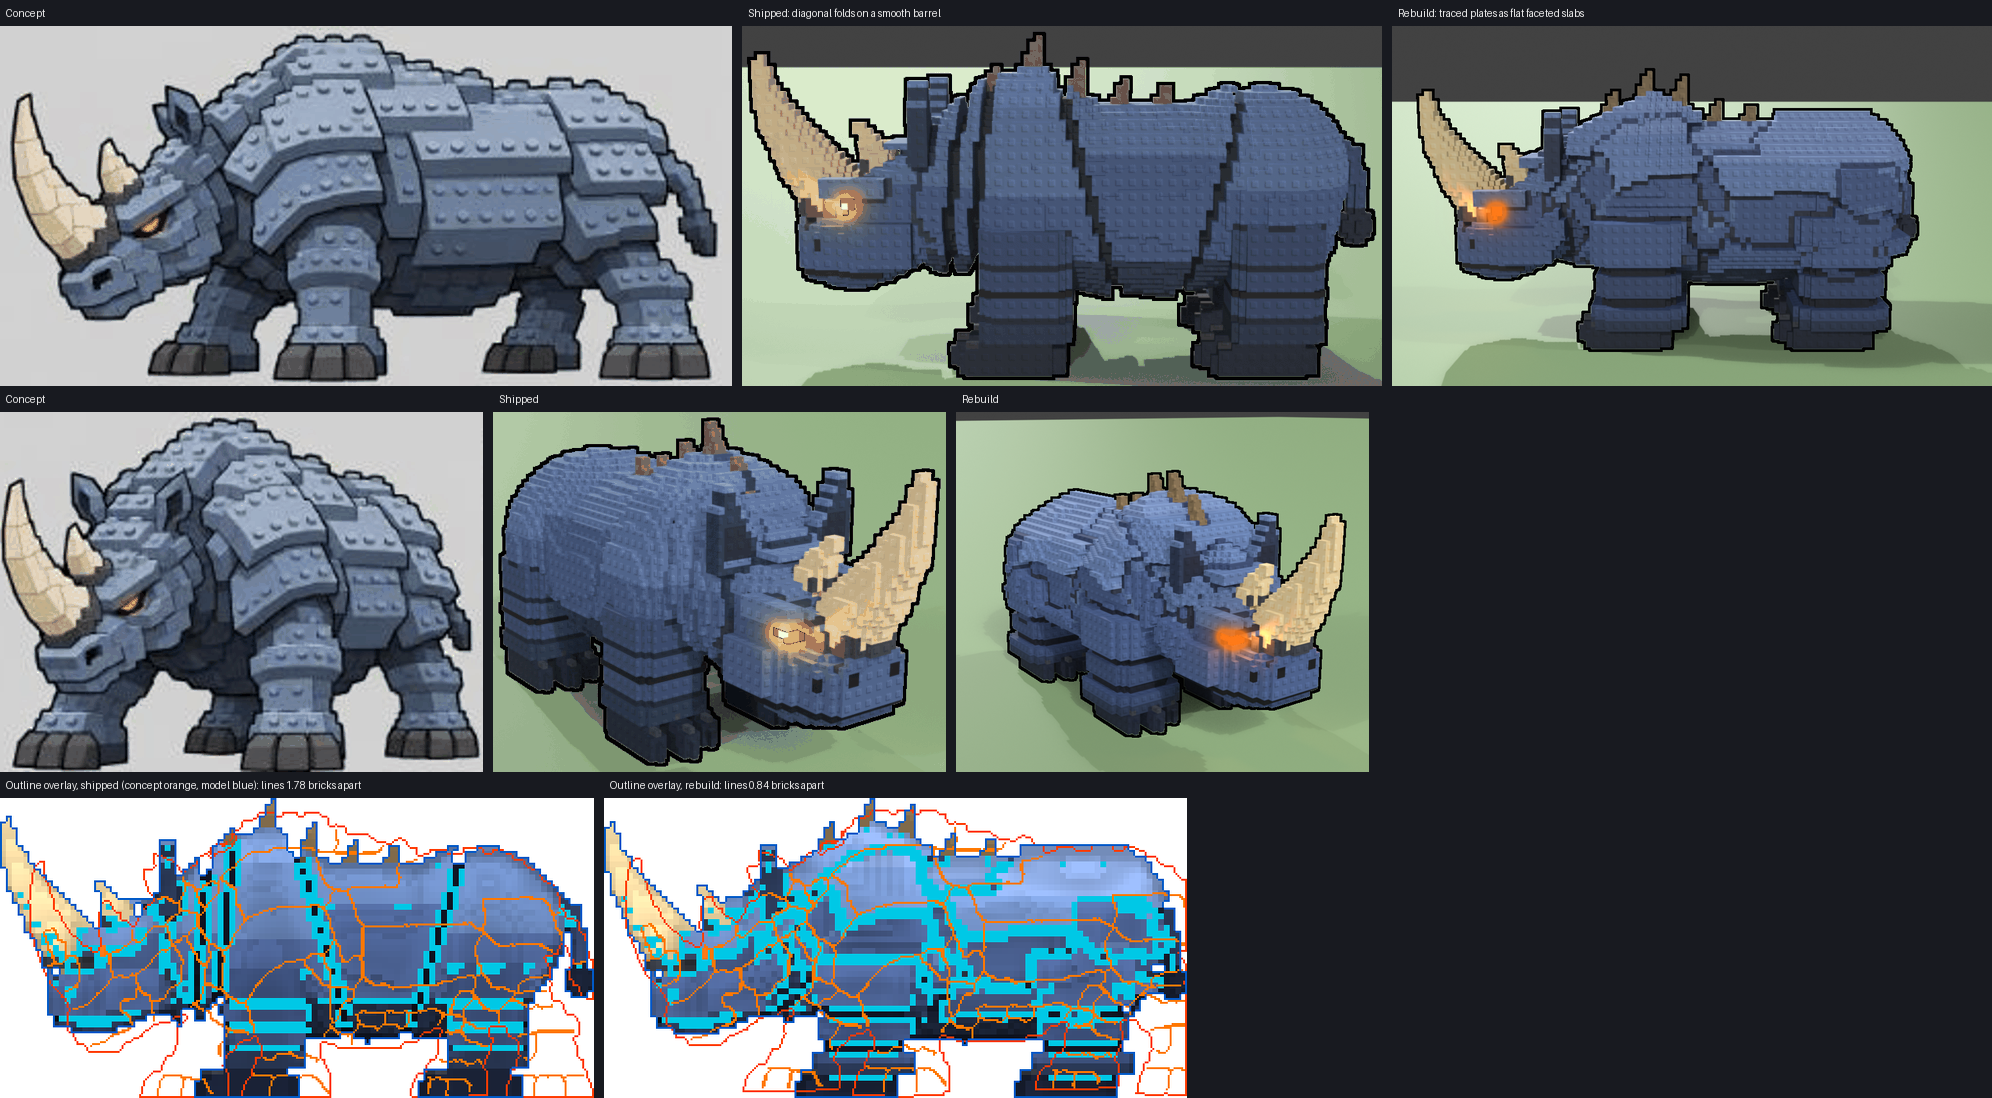
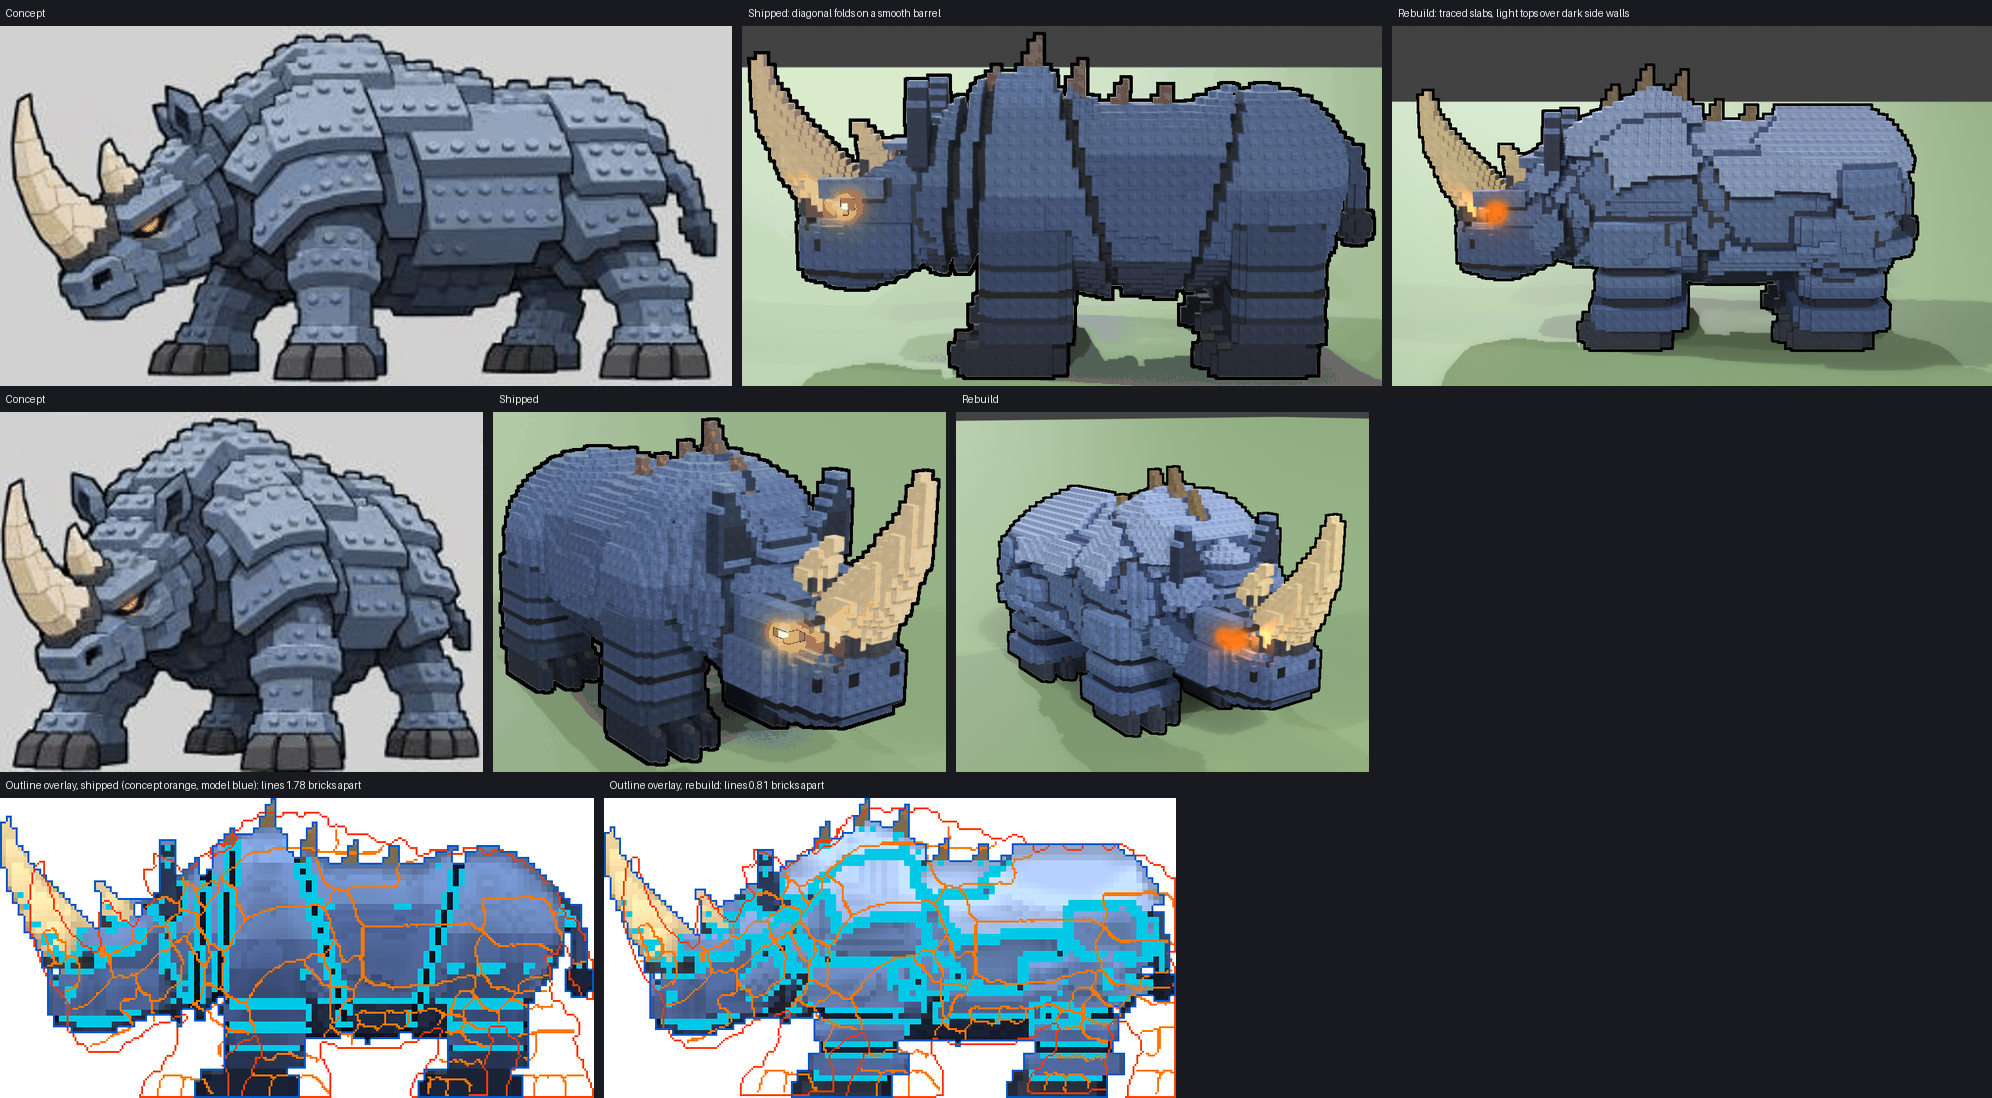
Stud Voxel: rhino slabs with deeper steps, light tops over dark side walls and a lifted palette
Claude-Session: https://claude.ai/code/session_01NPuT6tnB2mepVn22RWSB8t

diff --git a/.claude/skills/lihfolk-stud-voxel/examples/brick/war_rhino_plated_brick.py b/.claude/skills/lihfolk-stud-voxel/examples/brick/war_rhino_plated_brick.py
@@ -22,7 +22,7 @@ col = np.zeros((*n, 3)); kind = np.zeros(n, np.int8); stud = np.zeros(n, bool)  
 pid = np.zeros(n, np.int32); lvl = np.zeros(n)                                      # plate id / plate height level
 
 def hx(h): return np.array([int(h[i:i + 2], 16) / 255 for i in (0, 2, 4)])
-PLATE = hx('56709e'); HEADC = hx('5c77a6'); HIDE = hx('1f2a40'); HOOF = hx('3a3e47'); HOOFL = hx('5e636d')
+PLATE = hx('6a84b4'); HEADC = hx('5c77a6'); HIDE = hx('1f2a40'); HOOF = hx('3a3e47'); HOOFL = hx('5e636d')
 BLACK = hx('0c0e12'); IVORY = hx('f6e0b0'); COLLAR = hx('3c4456'); TUFT = hx('252b38')
 GLOW = {2: hx('ff7a18')}                                       # eyes: ONE flat glow colour (no hot centre / rim / glint)
 
@@ -85,6 +85,7 @@ SNAP = np.array([0, .5, 1.0])
 body_zone = (Y > BELLY_Y) & (d > -2.5)
 surf = (np.abs(d) < .8) & body_zone & (X > 0)
 shell = np.zeros(n, bool); L_ = np.zeros(n); face = np.ones(n)
+STEP = 1.4                                                             # bricks of height per plate level: deep steps show their side walls
 for i in np.unique(plate[surf]):
     P = np.stack([AX[surf & (plate == i)], Y[surf & (plate == i)], Z[surf & (plate == i)]], 1)
     if len(P) < 12: continue
@@ -93,9 +94,11 @@ for i in np.unique(plate[surf]):
     q = nrm / np.abs(nrm).max(); q = np.sign(q) * SNAP[np.argmin(np.abs(np.abs(q)[:, None] - SNAP[None]), 1)]
     nrm = q / np.linalg.norm(q)
     h = AX * nrm[0] + Y * nrm[1] + Z * nrm[2]
-    top = np.quantile(P.dot(nrm), .5) + float(plev[i]) - .5              # the slab's flat outer face
-    m_ = (plate == i) & body_zone & (((h <= top) & (d < float(plev[i]) + .6)) | (d < .5))   # never far off the body, never a hole
-    shell |= m_; L_[m_] = float(plev[i]); face[m_] = .84 + .26 * max(nrm[1], 0) + .05 * float(plev[i])   # faces that look up are lighter
+    rise = STEP * float(plev[i]) - .9
+    top = np.quantile(P.dot(nrm), .5) + rise                             # the slab's flat outer face
+    m_ = (plate == i) & body_zone & (((h <= top) & (d < rise + 1.1)) | (d < .5))   # never far off the body, never a hole
+    shell |= m_; L_[m_] = float(plev[i]); face[m_] = .86 + .34 * max(nrm[1], 0) + .04 * float(plev[i])   # faces that look up are lighter
+    face[m_ & (h <= top - 1.0) & (d < rise + .1)] *= .58                                   # everything under the outer layer is the slab's dark side wall
 TONE = (1.0, .95, 1.05)
 put(shell, PLATE, p=0, l=0)
 col[shell] = PLATE[None] * (np.array(TONE)[plate[shell] % 3] * face[shell])[:, None]
@@ -178,11 +181,11 @@ for ax in range(3):
     for s in (1, -1):
         np_ = np.roll(pid, s, axis=ax); nl = np.roll(lvl, s, axis=ax)
         rim |= (pid >= 2000) & (np_ >= 2000) & (np_ != pid) & (nl < lvl)
-col[rim & ~dark & (kind == 1)] *= 1.22                                             # hard light edge on the proud plate
-col *= np.clip(.62 + .55 * (Y / 50.0), .62, 1.18)[..., None]                      # lit tops, dark underside
+col[rim & ~dark & (kind == 1)] *= 1.08                                             # hard light edge on the proud plate
+col *= np.clip(.76 + .40 * (Y / 50.0), .76, 1.16)[..., None]                      # lit tops, dark underside
 col = np.clip(col, 0, 1)
 # voxel-style: VOXEL SIZE = 1 unit (= 2.5 studs in game). PALETTE <= 16: snap every solid brick to its nearest entry.
-PAL = np.array([hx(h) for h in ('7d97c8', '5f79a8', '4a6090', '384a72', '27344f',      # armour: light / main / side / dark / shadow
+PAL = np.array([hx(h) for h in ('9db4de', '7d97c8', '5f79a8', '4a6090', '384a72', '27344f',      # armour: light / main / side / dark / shadow
                                  '1a2236', '121828',                                  # seam / deep crease
                                  '6c88ba',                                            # head highlight
                                  '3a3e47', '5e636d', '0b0d11',                        # hoof / hoof light / black

diff --git a/docs/research/92-trace-and-match.md b/docs/research/92-trace-and-match.md
@@ -52,7 +52,12 @@ bricks) for a cleaner surface.
 | Shipped (diagonal folds) | 0.76 | 1.78 | 1.49 | 83 | 15 % | 60 % |
 | First rebuild (hand-laid rings) | 0.78 | 1.16 | 1.50 | 95 | 29 % | 80 % |
 | Traced rebuild | 0.79 | 0.73 | 1.14 | 91 | 29 % | 79 % |
-| Traced, faceted slabs (current) | 0.79 | 0.84 | 1.37 | 92 | 30 % | 74 % |
+| Traced, faceted slabs | 0.79 | 0.84 | 1.37 | 92 | 30 % | 74 % |
+| Traced slabs, deeper steps, light tops over dark walls (current) | 0.79 | 0.81 | 1.52 | 89 | 31 % | 74 % |
+
+The current version scores lower on `structure` only because its edge share (33 %) is past the
+25 % the score rewards; its value bands rose from 5.7 to 7.0 and small-size survival from 0.77
+to 0.80. By eye it is the closest to the concept.
 
 ## 4. Decisions
 
